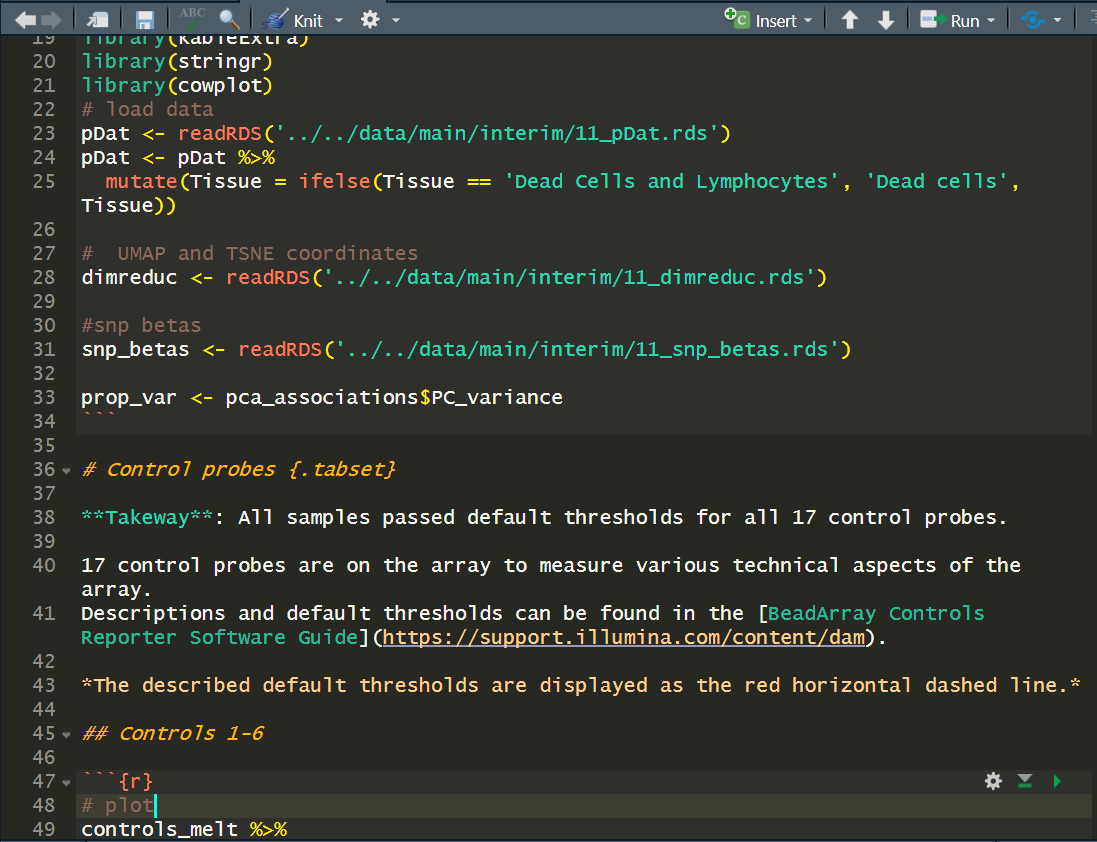
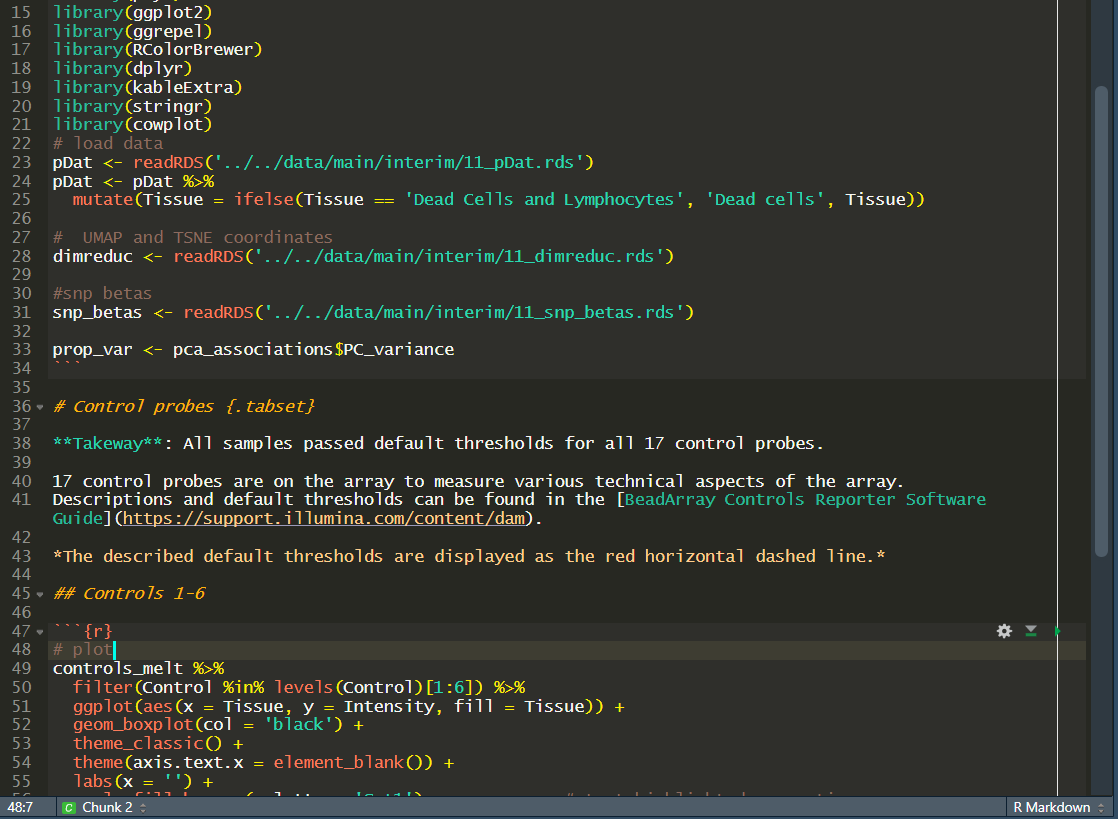
resized preview image 770x550 (w h)

Changed region(s): [[0.0, 0.0, 1.0, 1.0], [0.4649, 0.8547, 0.5579, 0.8852], [0.8678, 0.1832, 0.8988, 0.2442]]

diff --git a/README.md b/README.md
@@ -8,11 +8,13 @@ Rstudio themes
 A dark Rstudio theme created as thanks to a particular Vancouver coffee
 shop that fueled many productive mornings.
 
-*Requires Rstudio version \> 1.2*
+*Requires Rstudio version \>
+1.2*
 
-![](images/preview_49th_parallel.png)
+<img src="images/preview_49th_parallel.png" width="770" height="550" style="display: block; margin: auto;" />
+<br>
 
-To install,
+**To install,**
 
 **Step 1.** Make a coffee :coffee:
 
@@ -32,5 +34,4 @@ rstudioapi::addTheme(theme_49th_parallel,
                      apply = TRUE)
 ```
 
-**Step 3.** Start coding, while enjoying a nice hot cup of jo :yum:
-:computer:
+**Step 3.** Start coding, while enjoying a your coffee :yum: :computer:
